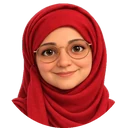
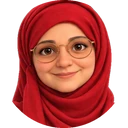
S12 W2-A fix round (part): door kit patch applied, calm talk timing everywhere, day.css card size, CLN-101 spec, dead ghost watcher gone; circles recut tighter, badge on the edge; card words fill their half (fit); replies on a phone in one row; box and finger on screen
Claude-Session: https://claude.ai/code/session_01Ktqv9q93wSPTjRME869DVF

diff --git a/css/shared/conversations.css b/css/shared/conversations.css
@@ -129,7 +129,8 @@
   gap: calc(var(--njg-u) * 12);
   min-height: calc(var(--njg-tap) * 1.3);
   min-width: 0;
-  padding: calc(var(--njg-u) * 10) calc(var(--njg-u) * 22) calc(var(--njg-u) * 10) calc(var(--njg-u) * 14);
+  /* (the judge, 23 Oct: the picture stuck out past the pill's round top-left corner: room for it inside the curve) */
+  padding: calc(var(--njg-u) * 10) calc(var(--njg-u) * 22) calc(var(--njg-u) * 10) calc(var(--njg-u) * 22);
   background: var(--cv-mine);
   border: calc(var(--njg-u) * 2) solid var(--cv-mine-line);
   border-radius: calc(var(--njg-u) * 22) calc(var(--njg-u) * 22) calc(var(--njg-u) * 6) calc(var(--njg-u) * 22);
@@ -139,7 +140,7 @@
   transition: transform .18s, box-shadow .18s, opacity .25s;
   touch-action: manipulation;
 }
-.cv-pill .cv-pic { font-size: calc(var(--njg-u) * 42); line-height: 1; white-space: nowrap; flex: none; }
+.cv-pill .cv-pic { font-size: calc(var(--njg-u) * 36); line-height: 1.15; white-space: nowrap; flex: none; }
 .cv-pill .cv-words { font-size: calc(var(--njg-u) * 27); font-weight: 800; line-height: 1.2; min-width: 0; }
 .cv-pill .cv-glyph { display: inline-flex; }
 .cv-pill .cv-glyph svg { width: calc(var(--njg-u) * 26); height: calc(var(--njg-u) * 26); color: #2f4f7f; }
@@ -176,4 +177,15 @@
 }
 @media (prefers-reduced-motion: reduce) {
   .cv-pill.shake, .cv-bubble[data-mood] { animation: none; }
+}
+
+/* the judge, 23 Oct (915x412): on a phone the replies stand in ONE row along the bottom, over the counter's front, smaller, so
+   they never cover the trays or the speaker (they wrap to a second row only if there are more than fit) */
+@media (max-height: 499.98px) {
+  .cv-replies { flex-direction: row; flex-wrap: wrap-reverse; justify-content: flex-end; align-items: center; gap: calc(var(--njg-u) * 8) calc(var(--njg-u) * 14); bottom: max(calc(var(--njg-u) * 6), env(safe-area-inset-bottom)); max-width: calc(100vw - var(--njg-side-w) - calc(var(--njg-u) * 24)); }
+  .cv-reply { gap: calc(var(--njg-u) * 8); }
+  .cv-hear { width: var(--njg-tap); height: var(--njg-tap); }
+  .cv-pill { min-height: var(--njg-tap); padding: calc(var(--njg-u) * 4) calc(var(--njg-u) * 16) calc(var(--njg-u) * 4) calc(var(--njg-u) * 16); }
+  .cv-pill .cv-pic { font-size: calc(var(--njg-u) * 26); }
+  .cv-pill .cv-words { font-size: calc(var(--njg-u) * 21); }
 }

diff --git a/css/shared/word-card.css b/css/shared/word-card.css
@@ -38,12 +38,14 @@
    never under the shared sizes. The sidebar row keeps its size. */
 .wc-card .wc-strip { container-type: inline-size; justify-content: center; }
 .wc-card .wc-strip > .wc-spk, .wc-card .wc-strip > .wc-words { align-self: center; }
-.wc-card .wc-spk { width: clamp(var(--njg-tap), 24cqi, calc(var(--njg-tap) * 1.6)); height: clamp(var(--njg-tap), 24cqi, calc(var(--njg-tap) * 1.6)); }
+.wc-card .wc-spk { width: clamp(var(--njg-tap), 27cqi, calc(var(--njg-tap) * 1.8)); height: clamp(var(--njg-tap), 27cqi, calc(var(--njg-tap) * 1.8)); }
 .wc-card .wc-spk svg { width: 50%; height: 50%; }
-.wc-card .wc-words { flex: 0 1 auto; align-items: center; text-align: center; }
-.wc-card .wc-slot.wc-k, .wc-card .wc-slot.wc-en { justify-content: center; }
-.wc-card .wc-k { font-size: clamp(var(--njg-t2), 15cqi, calc(var(--njg-t1) * 2)); min-height: calc(1.2em + var(--njg-line-2) * 2); }
-.wc-card .wc-en { font-size: clamp(var(--njg-t4), 8cqi, var(--njg-t1)); min-height: calc(1.25em + var(--njg-line-2) * 2); }
+.wc-card .wc-words { flex: 0 1 auto; min-width: 0; align-items: center; text-align: center; }
+.wc-card .wc-slot.wc-k, .wc-card .wc-slot.wc-en { justify-content: center; max-width: 100%; }
+/* the judge, 23 Oct: the words fill their half: big type in container units; a word that would not fit is shrunk to its line by
+   js/shared/word-card.js (fitWords: shrink, then wrap at spaces, never inside a word: non-negotiable 9) */
+.wc-card .wc-k { font-size: clamp(var(--njg-t2), 26cqi, calc(var(--njg-t1) * 2.8)); min-height: calc(1.2em + var(--njg-line-2) * 2); overflow-wrap: normal; word-break: normal; }
+.wc-card .wc-en { font-size: clamp(var(--njg-t4), 13cqi, calc(var(--njg-t1) * 1.3)); min-height: calc(1.25em + var(--njg-line-2) * 2); overflow-wrap: normal; word-break: normal; }
 /* a blanked slot: it keeps its place, a dashed outline and the free reveal */
 .wc-slot.blank { display: flex; align-items: center; justify-content: flex-start; border: var(--njg-line-2) dashed var(--njg-cream-edge); border-radius: var(--njg-radius); background: var(--njg-tint); }
 .wc-pic.blank { justify-content: center; }

diff --git a/js/shared/onboard.js b/js/shared/onboard.js
@@ -564,7 +564,16 @@
       /** rects: the targets' boxes; o: {avoid, pad, rings: the canvas things' boxes to ring, els: the HTML controls}. -> the box */
       draw(rects, o) {
         o = o || {};
-        const b = rects.length ? Onboard.groupBox(rects, o.avoid, o.pad) : null;
+        let b = rects.length ? Onboard.groupBox(rects, o.avoid, o.pad) : null;
+        // the box is always whole on the screen (S12 W2-A, the judge: the pantry jar's box touched the top edge at 915x412)
+        if (b) {
+          const m = 3;
+          const W = root.innerWidth || 1e4;
+          const H = root.innerHeight || 1e4;
+          const x = Math.max(m, b.x);
+          const y = Math.max(m, b.y);
+          b = Object.assign({}, b, { x, y, w: Math.min(b.x + b.w, W - m) - x, h: Math.min(b.y + b.h, H - m) - y });
+        }
         [hole, box].forEach((el) => {
           el.style.display = b ? "" : "none";
           if (b) put(el, b);
@@ -618,9 +627,8 @@
   const TAPPABLE = "button, img, a[href], input, select, [role='button'], .wc";
   Onboard.fingerFrom = function (target, prefer) {
     const order = ["above", "right", "left", "below"];
-    if (prefer && prefer !== "auto") return prefer;
     const r = union(rectsOf(target));
-    if (!r) return "above";
+    if (!r) return prefer && prefer !== "auto" ? prefer : "above";
     const els = listOf(target).map(htmlOf).filter(Boolean);
     const W = root.innerWidth || 1e4;
     const H = root.innerHeight || 1e4;
@@ -636,7 +644,13 @@
         }
       return true;
     };
-    return order.find(fits) || "above";
+    // a game's preferred side when the hand fits there (S12 W2-A, the judge: the pantry's finger from above went off the top of a
+    // phone), else the first side that fits
+    if (prefer && prefer !== "auto") {
+      const a = footOf(prefer, tipOf(r, prefer));
+      if (a && a.x >= 0 && a.y >= 0 && a.x + a.w <= W && a.y + a.h <= H) return prefer;
+    }
+    return order.find(fits) || prefer || "above";
   };
   const bouncer = (move, height) => {
     if (typeof move !== "function" || reduced()) return { tick() {}, stop() {} };

diff --git a/js/cook/ui.js b/js/cook/ui.js
@@ -1399,35 +1399,12 @@
           },
         },
       };
-      // CHAI-31 (the judge: the ghost finger covers "Wa alaikum salaam!"): the finger taps the reply's right end, its
-      // words left readable (the module puts it on the pill's middle)
-      if (global.MutationObserver && !kitchenTalk.mo) {
-        kitchenTalk.mo = new MutationObserver((ms) =>
-          ms.forEach((m) =>
-            m.addedNodes.forEach((n) => {
-              if (!n.classList || !n.classList.contains("cv-ghost")) return;
-              const x = parseFloat(n.style.left) || 0;
-              const y = parseFloat(n.style.top) || 0;
-              const pill = [...document.querySelectorAll(".cv-replies .cv-pill")].find((q) => {
-                const r = q.getBoundingClientRect();
-                return x >= r.left && x <= r.right && y >= r.top && y <= r.bottom;
-              });
-              if (!pill) return;
-              const r = pill.getBoundingClientRect();
-              n.style.left = `${r.right - Math.min(26, r.width * 0.12)}px`;
-              n.style.top = `${r.top + r.height * 0.55}px`;
-            })
-          )
-        );
-        kitchenTalk.mo.observe(document.body, { childList: true, subtree: true });
-      }
       const dish = (((ctx.order || {}).dishes || [])[0] || {}).recipe || "chai";
       const c1 = await C.maybe(Object.assign({ placement: "CK1" }, base));
       if (!c1.ran && token === Cook.run) await C.maybe(Object.assign({ placement: "CK2", x: { dish: dish === "chai" ? "cook-chai" : `cook-${dish}` } }, base));
     } catch (e) {
       /* the conversation is never the game: the order goes on */
     } finally {
-      if (kitchenTalk.mo) kitchenTalk.mo = (kitchenTalk.mo.disconnect(), null);
       if (Cook.expect && Cook.expect.talk) Cook.expect = prevExpect && !prevExpect.talk ? prevExpect : null;
     }
     Cook.checkRun(token);

diff --git a/js/shared/word-card.js b/js/shared/word-card.js
@@ -133,6 +133,20 @@
     else if (k.html != null) box.innerHTML = k.html;
   }
 
+  /** Shrink a text slot's own size until its widest word fits the line (the CSS size first; never under the token `min`). */
+  function fitWords(box, min) {
+    if (!box || !box.isConnected || box.classList.contains("blank")) return;
+    if (box.style.fontSize) box.style.fontSize = "";
+    const cs = root.getComputedStyle(box);
+    let fs = parseFloat(cs.fontSize) || 0;
+    const floor = parseFloat(root.getComputedStyle(doc.documentElement).getPropertyValue(min)) || 12;
+    let n = 0;
+    while (box.scrollWidth > box.clientWidth + 1 && fs > floor && n++ < 40) {
+      fs = Math.max(floor, fs - 1);
+      box.style.fontSize = `${fs}px`;
+    }
+  }
+
   function stageOf(word, opts) {
     if (opts.stage != null) return clampStage(opts.stage);
     const P = opts.progress;
@@ -281,6 +295,16 @@
       api.speak();
     });
     c.wc = api;
+    // SH-123 (the judge, 23 Oct: the words fill their half): the big card's Kutchi and English are drawn big (container units,
+    // css/shared/word-card.css); a word wider than its line shrinks to fit it, never under the shared size, so nothing breaks
+    // inside a word or spills (non-negotiable 9). Again whenever the card changes size.
+    if (kind === "card") {
+      const fit = () => [kt, en].forEach((b) => fitWords(b, b === kt ? "--njg-t2" : "--njg-t4"));
+      api.refit = fit;
+      if (root.ResizeObserver) new root.ResizeObserver(() => fit()).observe(strip);
+      const obs = root.MutationObserver ? new root.MutationObserver(() => fit()) : null;
+      if (obs) [kt, en].forEach((b) => obs.observe(b, { childList: true, characterData: true, subtree: true }));
+    }
     api.restage();
     if (parent) parent.appendChild(c);
     return c;

diff --git a/css/shared/order-card.css b/css/shared/order-card.css
@@ -101,6 +101,9 @@
    so they are never cropped again: no zoom, centred */
 .cl-face img[src*="/shared/faces/"], .hs-face .hs-face-art[src*="/shared/faces/"] { --face-zoom: 1; --face-y: 50%; object-position: center; }
 .oc-card .oc-face img[src*="/shared/faces/"] { object-position: center; }
+/* ART-08 (the judge, 23 Oct: "the speaker badge covers the right ear"): every face circle's speaker badge sits ON the circle's
+   lower-right edge, mostly outside it, never over the face or an ear (the order cards, the guide box, the clinic, Cook's cards) */
+.say-badge { transform: translate(34%, 34%); }
 /* (s09, the judge on 20 Oct: her circle "brows to chin fill the circle, no hair or ears" beside Nana's and the doctor's whole heads with a
    margin: hers zooms out to her whole face, ears and the top of her hair inside the circle, as theirs are) */
 /* (shared2, the orchestrator on 21 Oct: at 1.3 her circle showed her whole head and shoulders, far wider than Nana's and the doctor's.

diff --git a/css/shared/guide.css b/css/shared/guide.css
@@ -110,3 +110,6 @@
    "to record" flag (it threw off the spacing, so the screen can't be judged as it will look live). The flag stays in
    the markup as a hidden tag (.ng-rec / .oc-rec / .rs-rec, .ph, data-rec) so the tools can still list every one. */
 .njg-guide .ng-rec { display: none !important; }
+
+/* ART-08: the speaker badge on the circle's edge, never over the face (as css/shared/order-card.css) */
+.say-badge { transform: translate(34%, 34%); }

diff --git a/build/reports/s12-w2a/cut_faces.py b/build/reports/s12-w2a/cut_faces.py
@@ -3,7 +3,7 @@
 
   python3 build/reports/s12-w2a/cut_faces.py            -> assets/shared/faces/{doctor,girl,nani,nana}.webp (128 px)
 
-The rule (docs/design-language/art-plans/s12-art-plan.md section 2): a circle centred on the NOSE, its diameter 1.5 times the
+The rule (docs/design-language/art-plans/s12-art-plan.md section 2): a circle centred on the NOSE, its diameter 1.35 times the
 head's height (the top of the hair, scarf or cap to the chin or the beard's end), so every head is the same size in its circle
 and both ears (or both sides of the scarf) show. The flat #808080 ground is keyed out where it touches the cell's edge (a flood
 fill, so grey shading inside the figure stays), its edge softened by a pixel; outside the circle is transparent. The CSS never
@@ -87,7 +87,7 @@ def main():
         rgba = cell.convert("RGBA")
         rgba.putalpha(key_ground(cell))
         head = f["chin"] - f["top"]
-        d = round(1.5 * head)
+        d = round(1.35 * head)  # the judge, 23 Oct: the head fills the circle (its top is 0.64 head above the nose: 1.35 keeps it in)
         nx, ny = f["nose"]
         box = (nx - d // 2, ny - d // 2, nx - d // 2 + d, ny - d // 2 + d)
         sq = Image.new("RGBA", (d, d), (0, 0, 0, 0))
